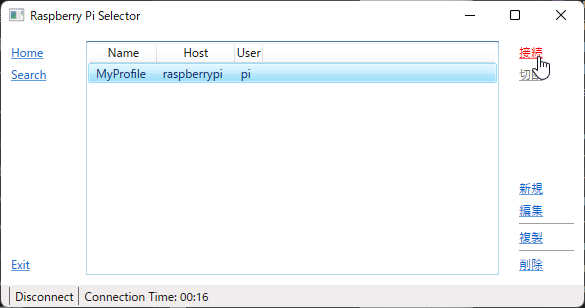
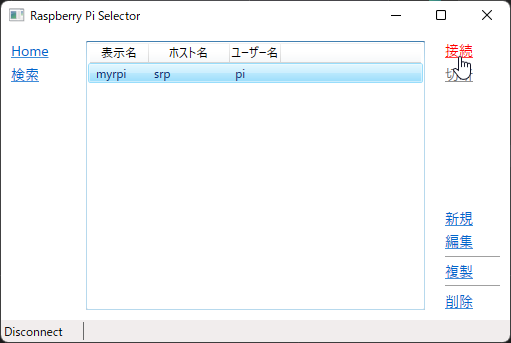
ライセンスの有効化: 画像を更新

diff --git a/doc/license.md b/doc/license.md
@@ -39,11 +39,11 @@ $ rm id_ed25519.pub
 ## Raspberry Pi Selectorの起動とライセンスの取得
 
 ソリューションを開くと、Raspberry Pi Selectorが自動で起動します。
-**Search** を押すとネットワーク内に存在するRaspberry Pi 4のリストが表示されるので、IPアドレスやホスト名 (HN) などを確認し、SSH公開鍵を書き込んだターゲットを選択して **Save** を押してください。
+**検索** を押すとネットワーク内に存在するRaspberry Pi 4のリストが表示されるので、IPアドレスやホスト名などを確認し、SSH公開鍵を書き込んだターゲットを選択して **保存** を押してください。
 
    ![lm-select-target](img/lm-select-target.png)
 
-任意のプロファイル名を **Name** に、ログイン時のユーザ名を **User** にそれぞれ入力し、 **保存**を押します。
+任意のプロファイル名を **表示名** に、ログイン時のユーザ名を **ユーザー名** にそれぞれ入力し、 **保存**を押します。
 
    ![lm-new-profile](img/lm-new-profile.png)
 
